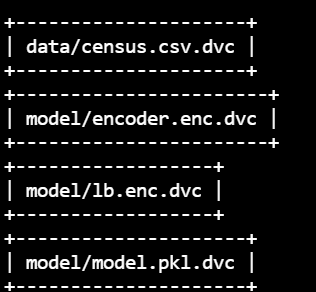
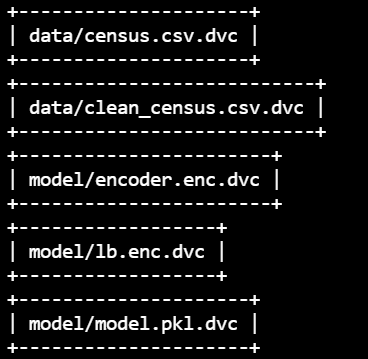
append missing materials

diff --git a/starter/train_model.py b/starter/train_model.py
@@ -88,6 +88,9 @@ if __name__ == "__main__":
 
     preds = inference(lr_model, X_test)
     precision, recall, fbeta = compute_model_metrics(y_test, preds)
+    print(f"Test precision: {precision:.4f}")
+    print(f"Test recall: {recall:.4f}")
+    print(f"Test fbeta: {fbeta:.4f}\n")
     logger.info("Test Set Metrics:")
     logger.info(f"Test precision: {precision:.4f}")
     logger.info(f"Test recall: {recall:.4f}")

diff --git a/model_card_template.md b/model_card_template.md
@@ -39,13 +39,13 @@ There are 14 features using to train model and the size is 20% of whole dataset<
 
 
 ## Metrics
-_Please include the metrics used and your model's performance on those metrics._Precision, recall, fbeta (reason, value, formula) comment on result
 <p>
 Precision means the percentage of your results which are relevant. <br>
-Precision formula is TP/(TP+FP). Precision value of model is <br>
+Precision formula is TP/(TP+FP). Precision value of model is 0.71<br>
 Recall refers to the percentage of total relevant results correctly classified by your algorithm. <br>
-Recall formula is TP/(TP+FN). Recall value of model is <br>
-The F-beta score is the weighted harmonic mean of precision and recall, reaching its optimal value at 1 and its worst value at 0. In this model, the impact of precision and recall will be the same. F-beta value is
+Recall formula is TP/(TP+FN). Recall value of model is 0.25<br>
+The F-beta score is the weighted harmonic mean of precision and recall, reaching its optimal value at 1 and its worst value at 0. In this model, the impact of precision and recall will be the same. F-beta value is 0.37 <br>
+Based on recall score, model is biased toward positive label -> the dataset is imbalanced.
 </p>
 
 ## Ethical Considerations
